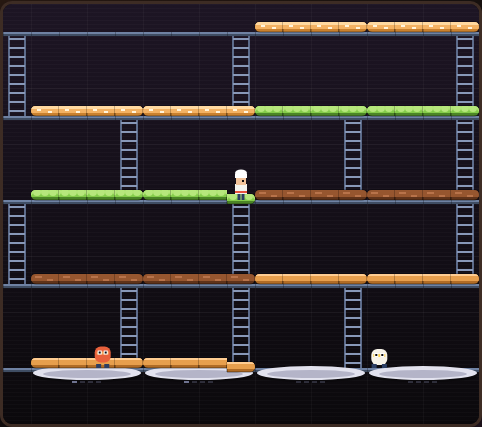
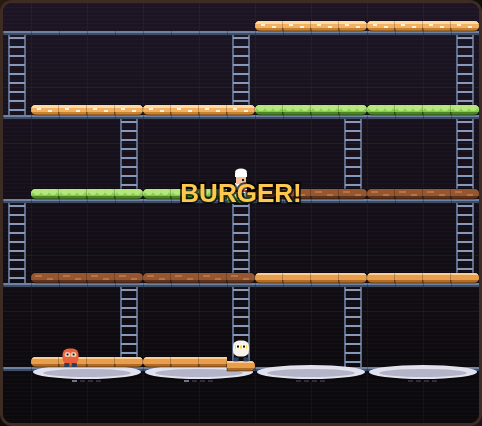
Add level/burger/life flash messages to Burger Time
Cosmetic on-canvas toast for level clears, completed burgers and lost
lives. It fades on real time in the render loop rather than inside
step(dt), so it stays out of the simulation and off the test surface.
Refreshes the game browser thumbnail.

Claude-Session: https://claude.ai/code/session_01K7azeLYASAq2gZgh39VM3v

diff --git a/BurgerTime/game.js b/BurgerTime/game.js
@@ -110,6 +110,14 @@ const plateCount = [0, 0, 0, 0];
 const enemies = [];
 const peppers = [];
 const sparks = [];
+// Purely cosmetic toast drawn over the kitchen; it lives outside step() so it
+// fades on real time and never affects the simulation.
+const banner = { text: '', life: 0 };
+
+function flash(text) {
+    banner.text = text;
+    banner.life = 1.2;
+}
 
 // ---------------------------------------------------------------------------
 // Deterministic RNG (mulberry32) — tests pin it with setSeed().
@@ -320,6 +328,7 @@ function startGame() {
 function nextLevel() {
     level += 1;
     score += LEVEL_BONUS;
+    flash(`LEVEL ${level}`);
     pepper = Math.min(pepper + 1, 9);
     buildLevel();
     spawnEnemies();
@@ -331,6 +340,7 @@ function nextLevel() {
 function loseLife() {
     lives -= 1;
     burst(chef.x, chef.y - CHEF_H / 2, '#ff6b4a', 16);
+    flash('OUCH!');
     if (lives <= 0) {
         gameOver();
     } else {
@@ -456,6 +466,7 @@ function landIngredient(ing, floor) {
         if (plateCount[ing.stack] === INGREDIENTS_PER_BURGER) {
             burgersDone += 1;
             score += BURGER_BONUS;
+            flash('BURGER!');
             if (burgersDone === STACK_X.length) levelCleared = true;
         }
         return;
@@ -628,6 +639,8 @@ function burst(x, y, color, count) {
 }
 
 function updateSparks(dt) {
+    if (banner.life > 0) banner.life = Math.max(0, banner.life - dt);
+
     for (let i = sparks.length - 1; i >= 0; i--) {
         const s = sparks[i];
         s.x += s.vx * dt;
@@ -935,6 +948,22 @@ function drawSparks() {
     ctx.globalAlpha = 1;
 }
 
+function drawBanner() {
+    if (banner.life <= 0) return;
+    const alpha = Math.min(1, banner.life / 0.4);
+    const rise = (1.2 - banner.life) * 14;
+    ctx.save();
+    ctx.globalAlpha = alpha;
+    ctx.textAlign = 'center';
+    ctx.font = 'bold 26px "Trebuchet MS", sans-serif';
+    ctx.lineWidth = 4;
+    ctx.strokeStyle = 'rgba(0, 0, 0, 0.7)';
+    ctx.strokeText(banner.text, CANVAS_W / 2, CANVAS_H / 2 - rise);
+    ctx.fillStyle = '#ffc74d';
+    ctx.fillText(banner.text, CANVAS_W / 2, CANVAS_H / 2 - rise);
+    ctx.restore();
+}
+
 function draw() {
     drawBackground();
     drawLadders();
@@ -945,6 +974,7 @@ function draw() {
     for (const e of enemies) drawEnemy(e);
     if (state !== 'idle') drawChef();
     drawSparks();
+    drawBanner();
 }
 
 // ---------------------------------------------------------------------------
